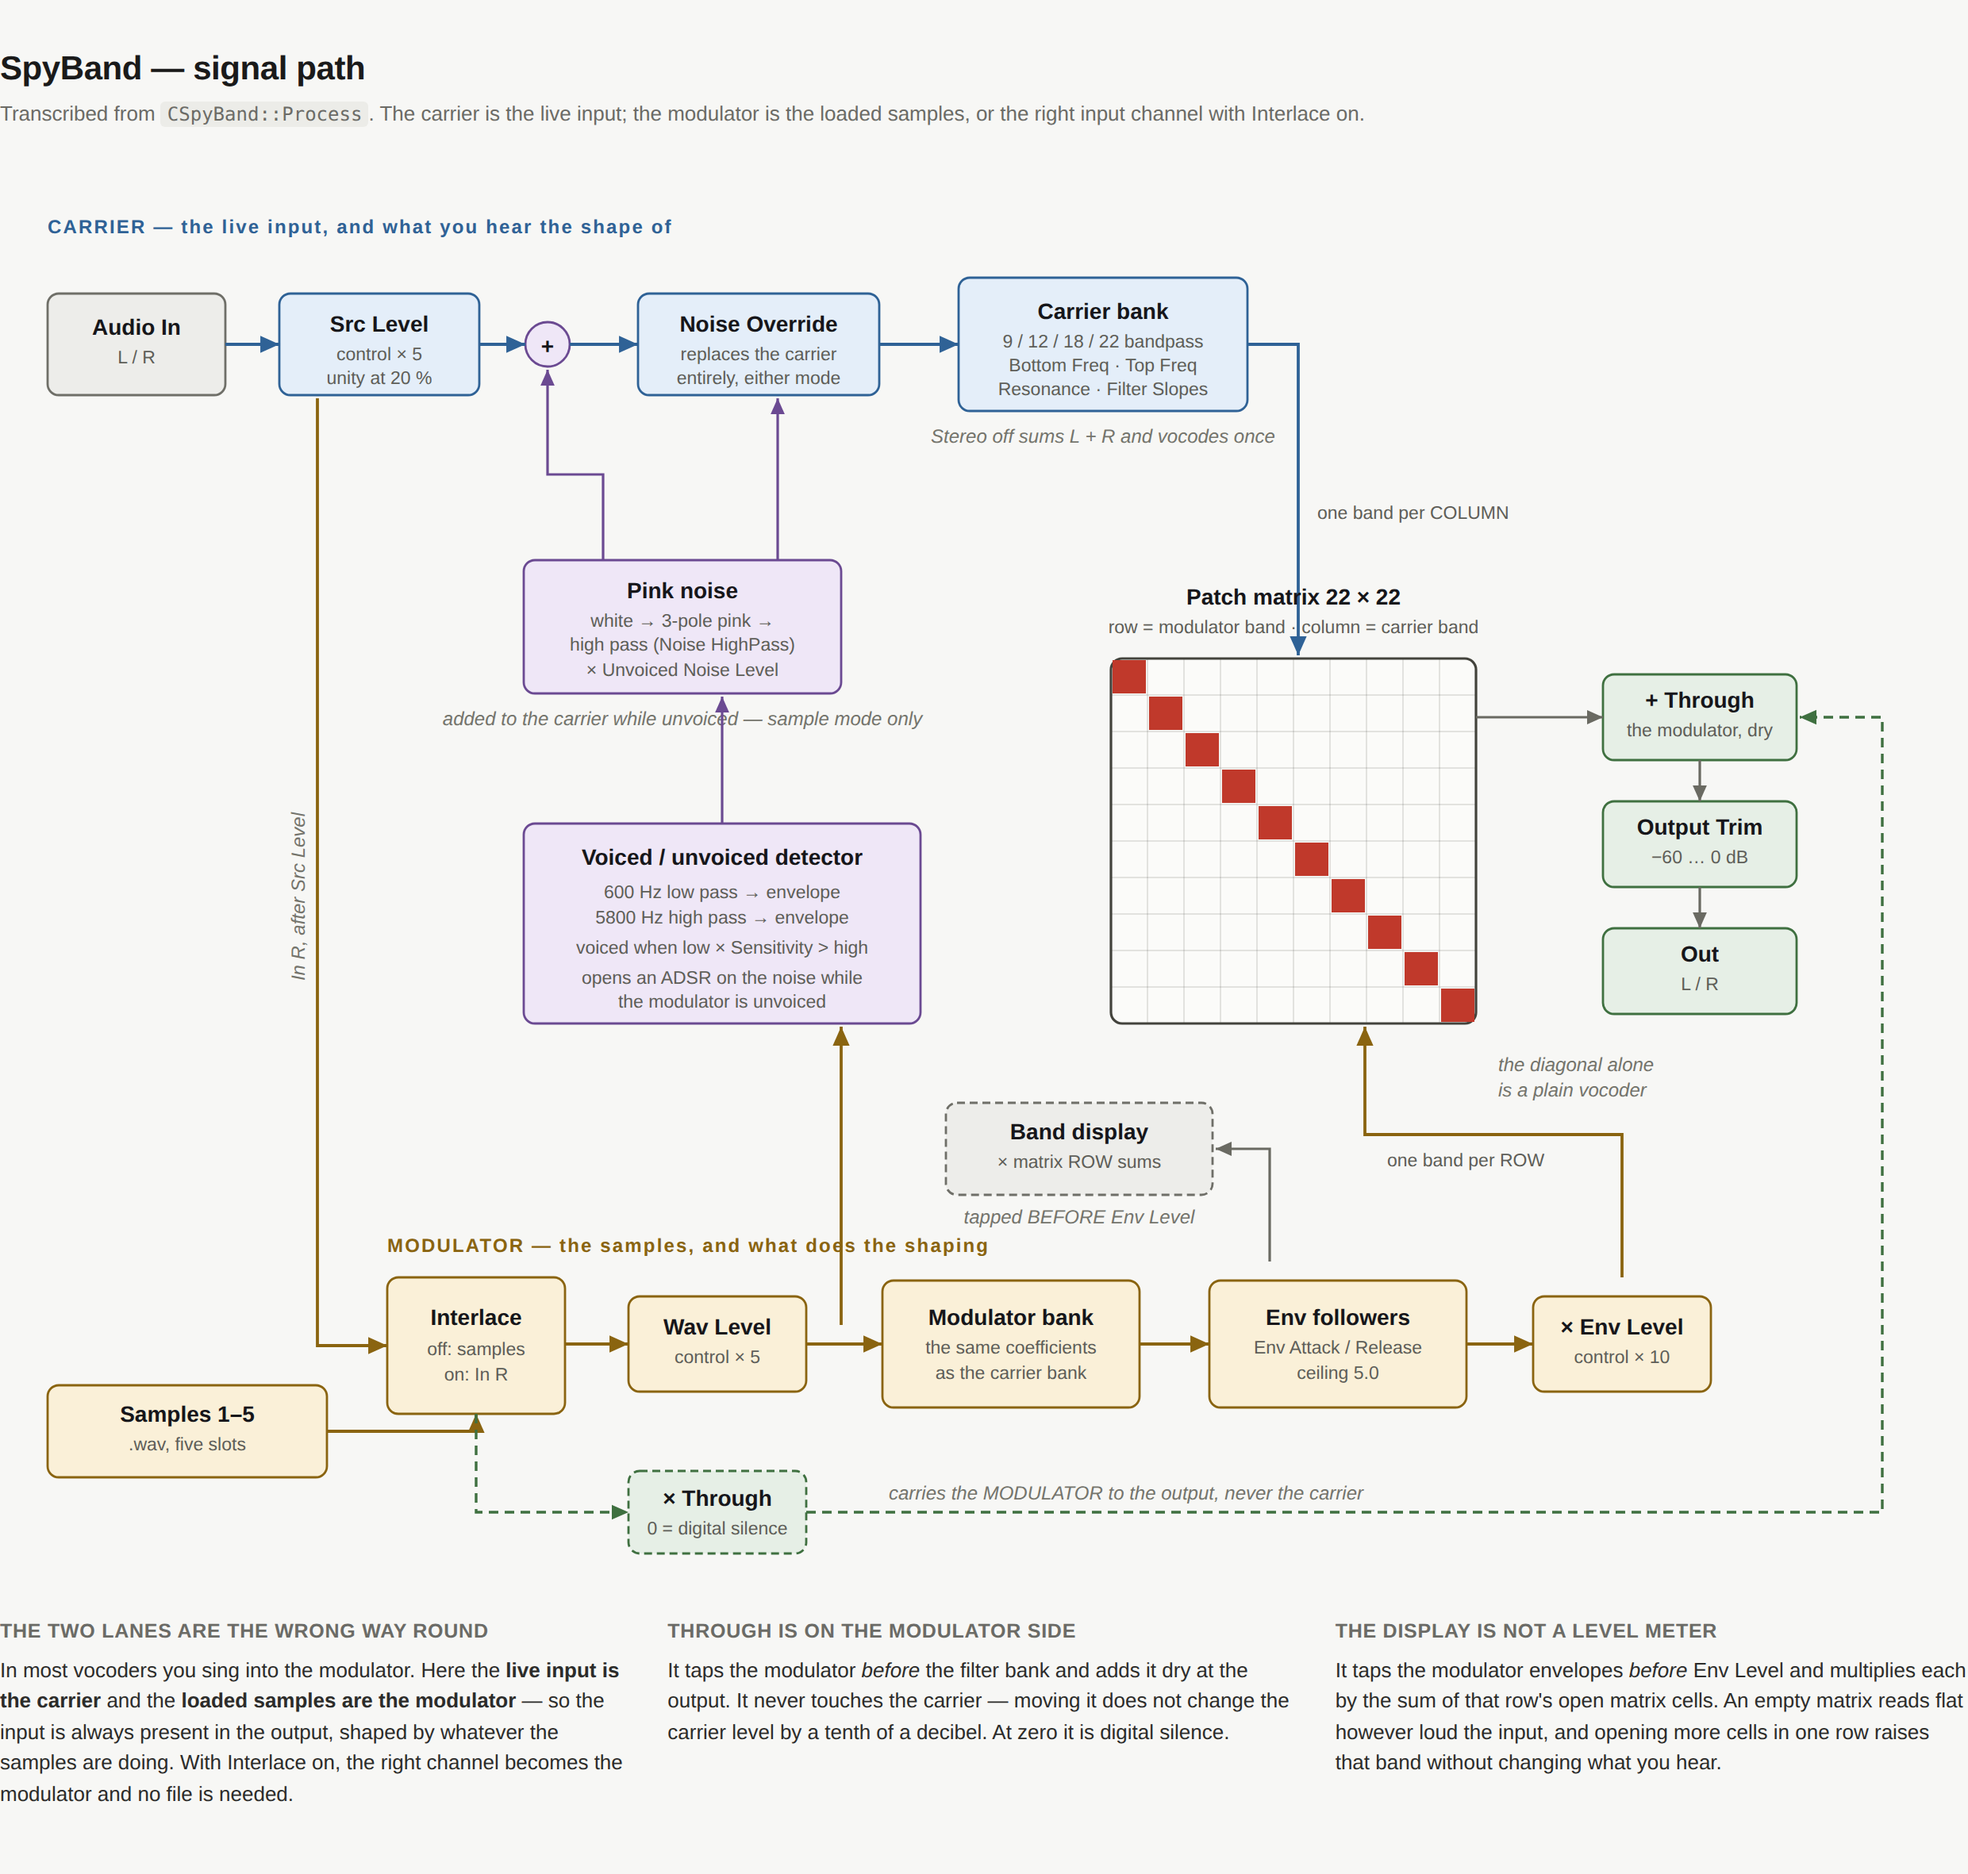
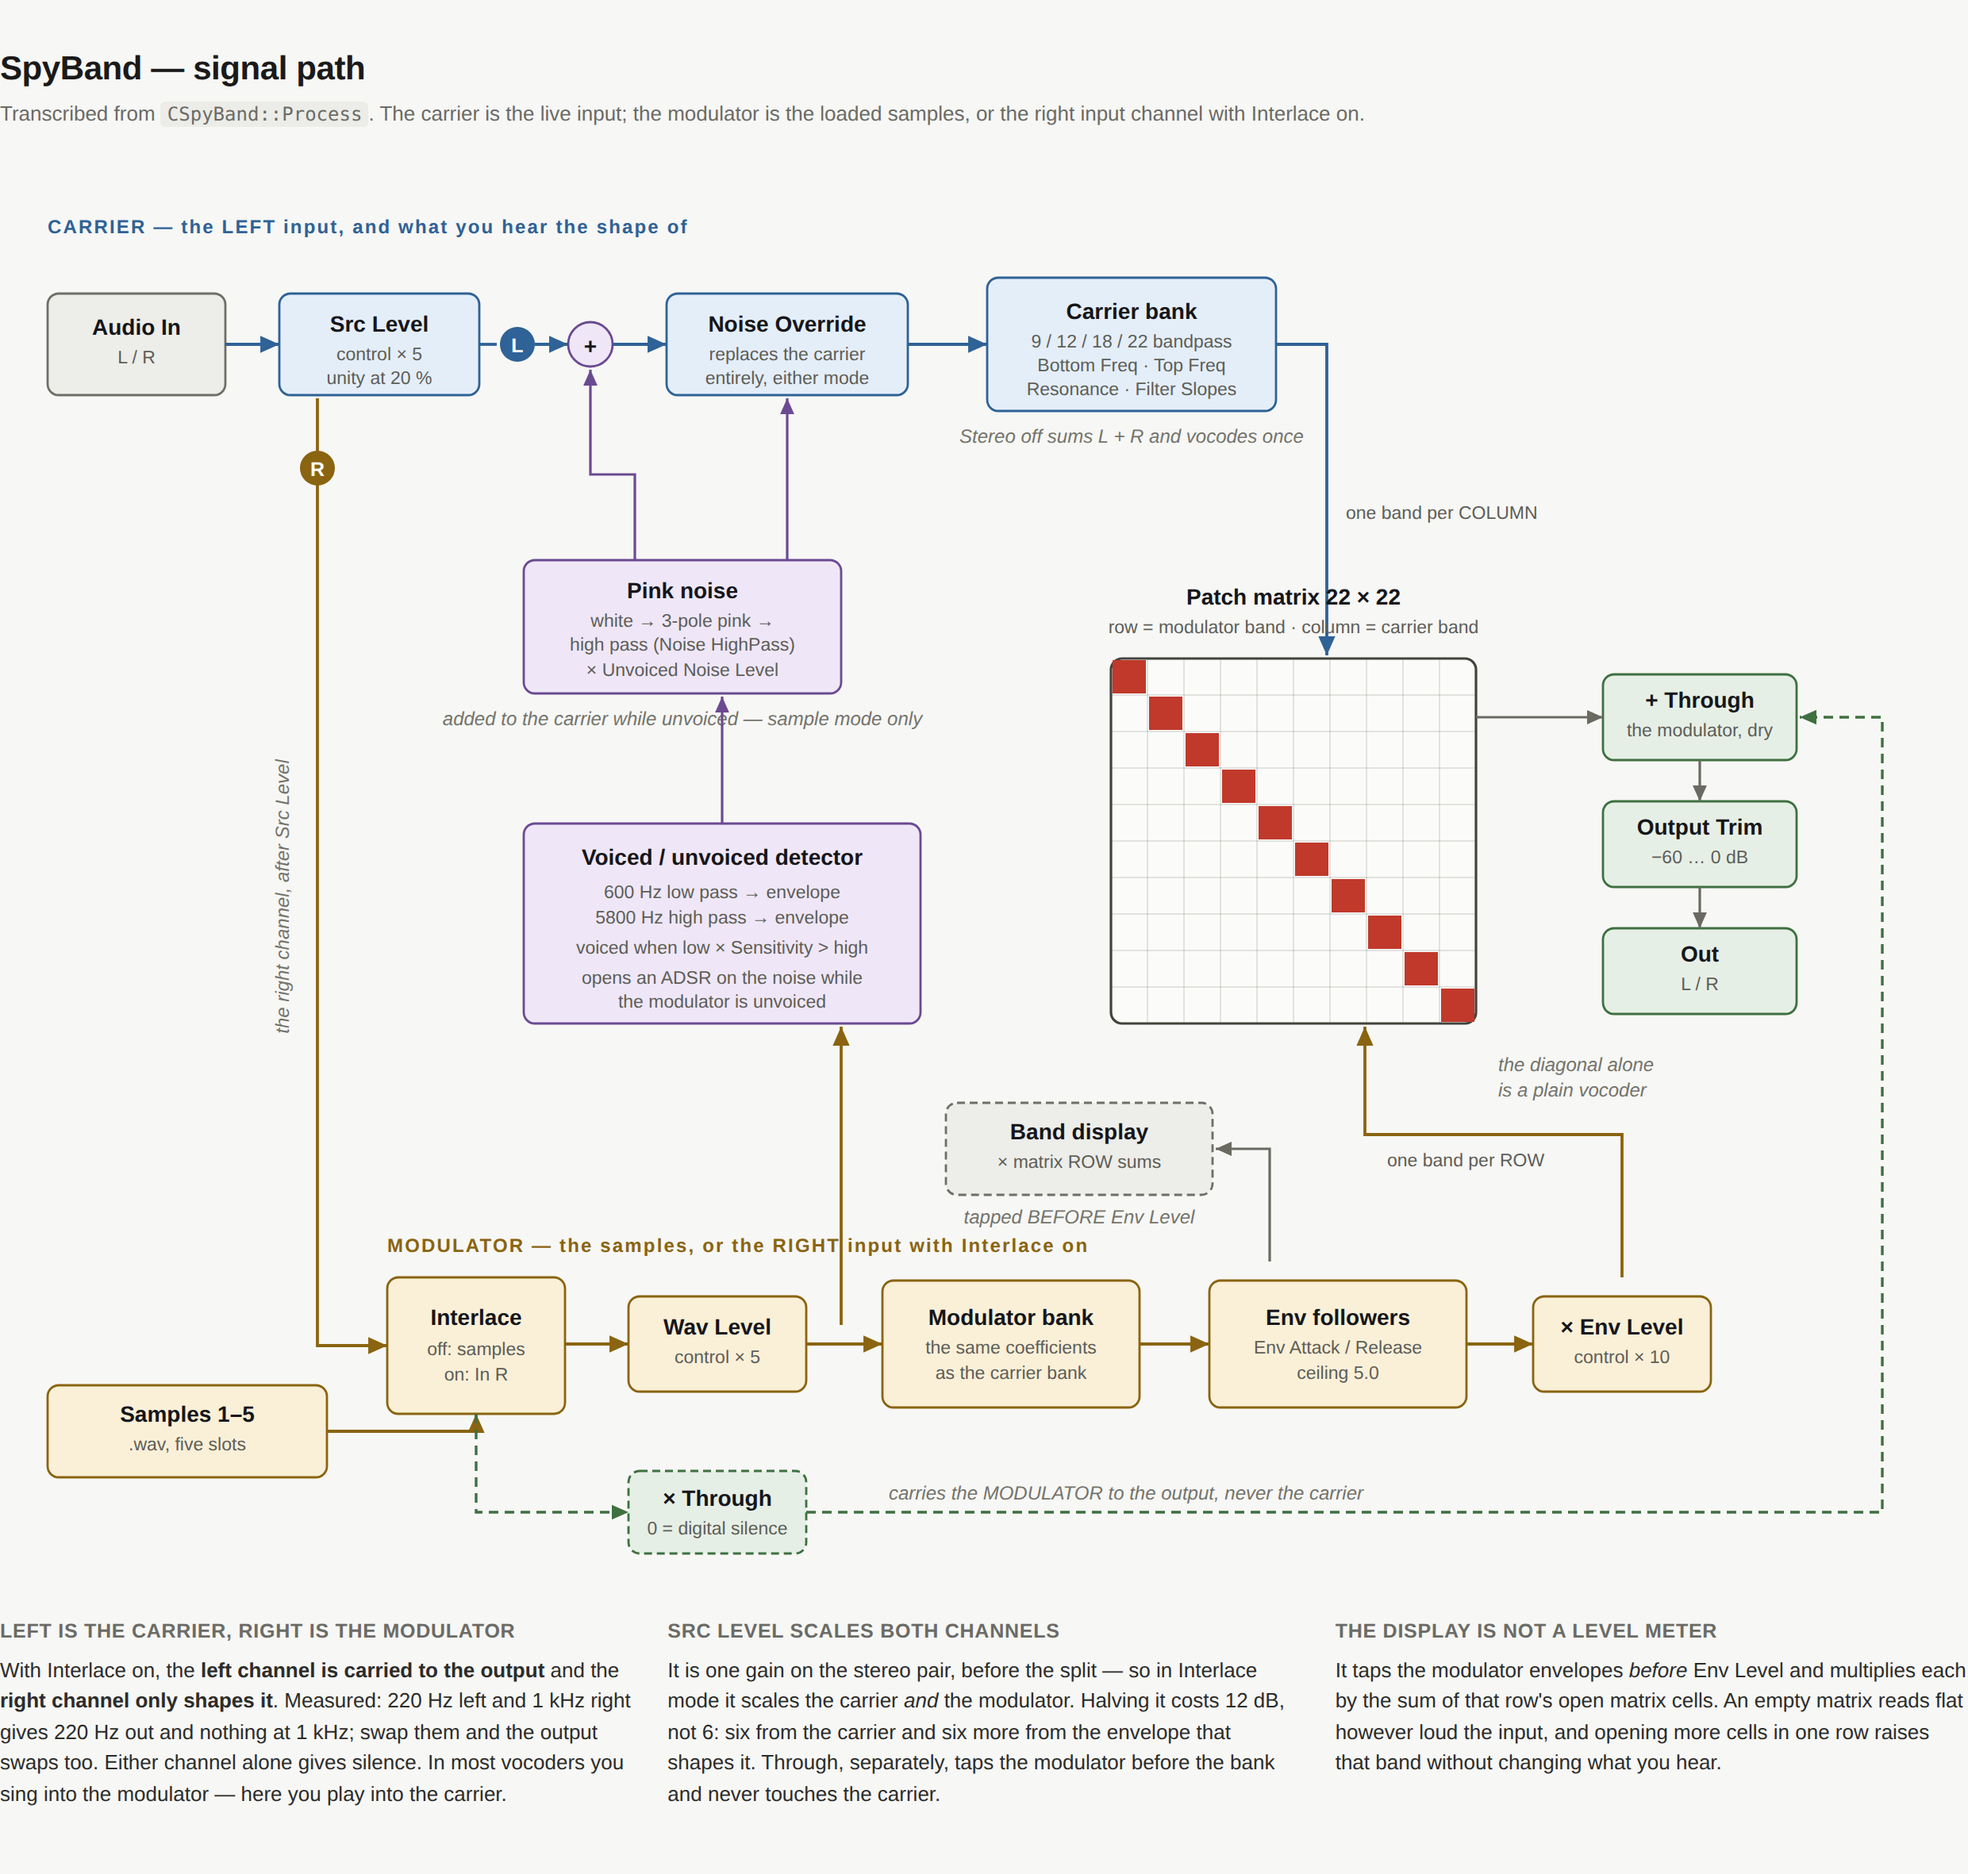
docs: name the channels in the signal path
The first version left the L/R split implicit and was read backwards. The
carrier lane now says LEFT, the modulator lane says RIGHT, and both wires
carry a channel badge leaving Src Level - which is where they part, and
which is why Src Level scales the carrier and the modulator together.

Measured and noted: 220 Hz left with 1 kHz right gives 220 Hz out and
nothing at 1 kHz; swapped, the output swaps; either channel alone is
silence. Halving Src Level in Interlace mode costs 12 dB, not 6.

Claude-Session: https://claude.ai/code/session_01CVzv57EDwkyyA83qbZTgh6

diff --git a/docs/signal-path.html b/docs/signal-path.html
@@ -53,7 +53,7 @@
   </defs>
 
   <!-- ================= CARRIER LANE ================= -->
-  <text class="lane" x="30" y="52" fill="#2f6296">CARRIER — the live input, and what you hear the shape of</text>
+  <text class="lane" x="30" y="52" fill="#2f6296">CARRIER — the LEFT input, and what you hear the shape of</text>
 
   <rect class="bx neu" x="30" y="90" width="112" height="64"/>
   <text class="t" x="86" y="116" text-anchor="middle">Audio In</text>
@@ -65,26 +65,30 @@
   <text class="s" x="239" y="147" text-anchor="middle">unity at 20 %</text>
   <path class="wc" d="M142,122 H176" marker-end="url(#ac)"/>
 
-  <circle cx="345" cy="122" r="14" fill="#efe7f7" stroke="#6b4a92" stroke-width="1.4"/>
-  <text class="t" x="345" y="128" text-anchor="middle" font-size="16">+</text>
-  <path class="wc" d="M302,122 H331" marker-end="url(#ac)"/>
+  <path class="wc" d="M302,122 H313"/>
+  <circle cx="326" cy="122" r="11" fill="#2f6296"/>
+  <text x="326" y="127" text-anchor="middle" font-size="12.5" font-weight="700" fill="#ffffff">L</text>
 
-  <rect class="bx car" x="402" y="90" width="152" height="64"/>
-  <text class="t" x="478" y="114" text-anchor="middle">Noise Override</text>
-  <text class="s" x="478" y="132" text-anchor="middle">replaces the carrier</text>
-  <text class="s" x="478" y="147" text-anchor="middle">entirely, either mode</text>
-  <path class="wc" d="M359,122 H402" marker-end="url(#ac)"/>
+  <circle cx="372" cy="122" r="14" fill="#efe7f7" stroke="#6b4a92" stroke-width="1.4"/>
+  <text class="t" x="372" y="128" text-anchor="middle" font-size="16">+</text>
+  <path class="wc" d="M337,122 H358" marker-end="url(#ac)"/>
 
-  <rect class="bx car" x="604" y="80" width="182" height="84"/>
-  <text class="t" x="695" y="106" text-anchor="middle">Carrier bank</text>
-  <text class="s" x="695" y="124" text-anchor="middle">9 / 12 / 18 / 22 bandpass</text>
-  <text class="s" x="695" y="139" text-anchor="middle">Bottom Freq · Top Freq</text>
-  <text class="s" x="695" y="154" text-anchor="middle">Resonance · Filter Slopes</text>
-  <path class="wc" d="M554,122 H604" marker-end="url(#ac)"/>
-  <text class="note" x="695" y="184" text-anchor="middle">Stereo off sums L + R and vocodes once</text>
+  <rect class="bx car" x="420" y="90" width="152" height="64"/>
+  <text class="t" x="496" y="114" text-anchor="middle">Noise Override</text>
+  <text class="s" x="496" y="132" text-anchor="middle">replaces the carrier</text>
+  <text class="s" x="496" y="147" text-anchor="middle">entirely, either mode</text>
+  <path class="wc" d="M386,122 H420" marker-end="url(#ac)"/>
 
-  <path class="wc" d="M786,122 H818 V318" marker-end="url(#ac)"/>
-  <text class="s" x="830" y="232" fill="#2f6296">one band per COLUMN</text>
+  <rect class="bx car" x="622" y="80" width="182" height="84"/>
+  <text class="t" x="713" y="106" text-anchor="middle">Carrier bank</text>
+  <text class="s" x="713" y="124" text-anchor="middle">9 / 12 / 18 / 22 bandpass</text>
+  <text class="s" x="713" y="139" text-anchor="middle">Bottom Freq · Top Freq</text>
+  <text class="s" x="713" y="154" text-anchor="middle">Resonance · Filter Slopes</text>
+  <path class="wc" d="M572,122 H622" marker-end="url(#ac)"/>
+  <text class="note" x="713" y="184" text-anchor="middle">Stereo off sums L + R and vocodes once</text>
+
+  <path class="wc" d="M804,122 H836 V318" marker-end="url(#ac)"/>
+  <text class="s" x="848" y="232" fill="#2f6296">one band per COLUMN</text>
 
   <!-- ================= PINK NOISE ================= -->
   <rect class="bx noi" x="330" y="258" width="200" height="84"/>
@@ -94,8 +98,8 @@
   <text class="s" x="430" y="331" text-anchor="middle">× Unvoiced Noise Level</text>
   <text class="note" x="430" y="362" text-anchor="middle">added to the carrier while unvoiced — sample mode only</text>
 
-  <path class="wn" d="M380,258 V204 H345 V138" marker-end="url(#an)"/>
-  <path class="wn" d="M490,258 V156" marker-end="url(#an)"/>
+  <path class="wn" d="M400,258 V204 H372 V138" marker-end="url(#an)"/>
+  <path class="wn" d="M496,258 V156" marker-end="url(#an)"/>
 
   <!-- ================= VOICED DETECTOR ================= -->
   <rect class="bx noi" x="330" y="424" width="250" height="126"/>
@@ -156,7 +160,7 @@
   <text class="note" x="680" y="676" text-anchor="middle">tapped BEFORE Env Level</text>
 
   <!-- ================= MODULATOR LANE ================= -->
-  <text class="lane" x="244" y="694" fill="#8a6410">MODULATOR — the samples, and what does the shaping</text>
+  <text class="lane" x="244" y="694" fill="#8a6410">MODULATOR — the samples, or the RIGHT input with Interlace on</text>
 
   <rect class="bx mod" x="30" y="778" width="176" height="58"/>
   <text class="t" x="118" y="801" text-anchor="middle">Samples 1–5</text>
@@ -193,7 +197,9 @@
 
   <!-- In R taps off Src Level and runs down the clear left channel -->
   <path class="wm" d="M200,156 V753 H244" marker-end="url(#am)"/>
-  <text class="note" x="192" y="470" text-anchor="middle" transform="rotate(-90 192 470)">In R, after Src Level</text>
+  <circle cx="200" cy="200" r="11" fill="#8a6410"/>
+  <text x="200" y="205" text-anchor="middle" font-size="12.5" font-weight="700" fill="#ffffff">R</text>
+  <text class="note" x="182" y="470" text-anchor="middle" transform="rotate(-90 182 470)">the right channel, after Src Level</text>
 
   <!-- ================= THROUGH ================= -->
   <path class="wt" d="M300,796 V858 H396" marker-end="url(#at)"/>
@@ -206,12 +212,12 @@
 
 <div class="notes">
   <div>
-    <h2>The two lanes are the wrong way round</h2>
-    <p>In most vocoders you sing into the modulator. Here the <strong>live input is the carrier</strong> and the <strong>loaded samples are the modulator</strong> — so the input is always present in the output, shaped by whatever the samples are doing. With Interlace on, the right channel becomes the modulator and no file is needed.</p>
+    <h2>Left is the carrier, right is the modulator</h2>
+    <p>With Interlace on, the <strong>left channel is carried to the output</strong> and the <strong>right channel only shapes it</strong>. Measured: 220&nbsp;Hz left and 1&nbsp;kHz right gives 220&nbsp;Hz out and nothing at 1&nbsp;kHz; swap them and the output swaps too. Either channel alone gives silence. In most vocoders you sing into the modulator — here you play into the carrier.</p>
   </div>
   <div>
-    <h2>Through is on the modulator side</h2>
-    <p>It taps the modulator <em>before</em> the filter bank and adds it dry at the output. It never touches the carrier — moving it does not change the carrier level by a tenth of a decibel. At zero it is digital silence.</p>
+    <h2>Src Level scales both channels</h2>
+    <p>It is one gain on the stereo pair, before the split — so in Interlace mode it scales the carrier <em>and</em> the modulator. Halving it costs 12&nbsp;dB, not 6: six from the carrier and six more from the envelope that shapes it. Through, separately, taps the modulator before the bank and never touches the carrier.</p>
   </div>
   <div>
     <h2>The display is not a level meter</h2>
